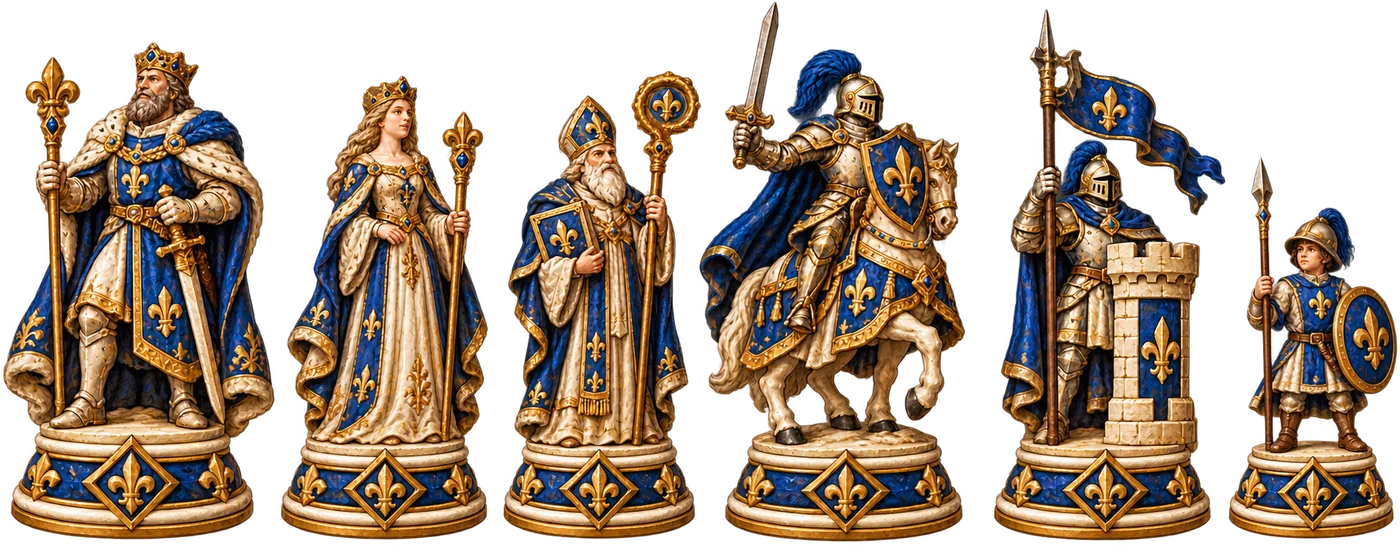
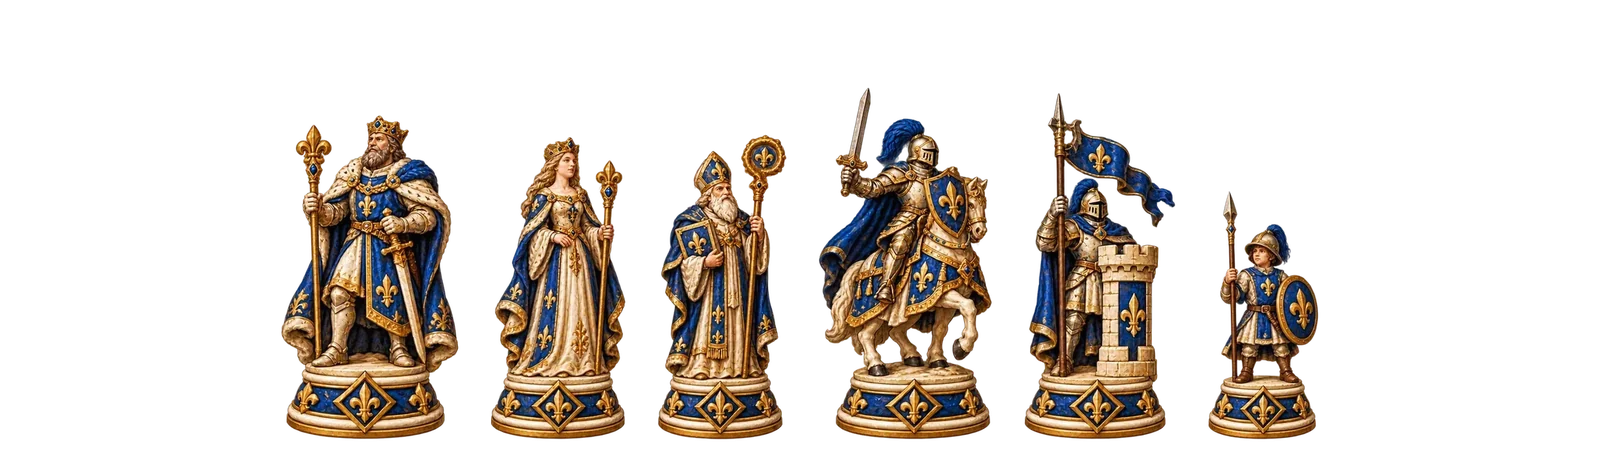
Add files via upload

diff --git a/index.html b/index.html
@@ -189,7 +189,7 @@ main.home h2,.community h2{font:700 clamp(26px,3.4vw,36px)/1.2 'Cinzel',Georgia,
 /* Piece sets */
 .sets{display:grid;grid-template-columns:1fr;gap:18px}
 .sets figure{margin:0;background:var(--lacquer);border:1px solid var(--rule);border-radius:14px;padding:16px 16px 12px;display:flex;flex-direction:column}
-.sets img{display:block;width:100%;height:auto;aspect-ratio:3/1;object-fit:contain}
+.sets img{display:block;width:100%;height:auto;aspect-ratio:1600/457;object-fit:contain}
 .sets figcaption{margin-top:10px;display:flex;flex-wrap:wrap;align-items:baseline;gap:2px 12px}
 .sets figcaption b{font:600 17px/1.3 'Cinzel',Georgia,serif;color:var(--gilt)}
 .sets figcaption span{font-size:18px;color:var(--soft)}
@@ -418,10 +418,10 @@ footer .legal{margin-top:6px}
 <h2>Make it yours</h2>
 <p class="lede">Choose your table, background, music and piece set. Earn crests, banners and seasonal tables, and gild your favourite pieces from bronze up to platinum as you master them.</p>
 <div class="sets">
-<figure><img src="set-basic.webp" alt="The Basic piece set: classic king, queen, bishop, knight, rook and pawn in ivory and gold" loading="lazy" decoding="async" width="1400" height="429"><figcaption><b>Basic</b><span>The familiar shapes, for classic play.</span></figcaption></figure>
-<figure><img src="set-court.webp" alt="The Court piece set in blue and gold" loading="lazy" decoding="async" width="1400" height="552"><figcaption><b>Court</b><span>One of many sets with its own character.</span></figcaption></figure>
-<figure><img src="set-cute.webp" alt="The eight new pieces in the Cute set, pink and gold: Jester, Pilgrim, Herald, Abbess, Archer, Nightrider, Lancer and Falconer" loading="lazy" decoding="async" width="1400" height="455"><figcaption><b>Cute</b><span>Every set has its own take on all eight new pieces.</span></figcaption></figure>
-<figure><img src="set-halloween.webp" alt="The Halloween piece set" loading="lazy" decoding="async" width="1400" height="582"><figcaption><b>Halloween</b><span>Seasonal sets arrive with the year's events.</span></figcaption></figure>
+<figure><img src="set-basic.webp" alt="The Basic piece set: classic king, queen, bishop, knight, rook and pawn in ivory and gold" loading="lazy" decoding="async" width="1600" height="457"><figcaption><b>Basic</b><span>The familiar shapes, for classic play.</span></figcaption></figure>
+<figure><img src="set-court.webp" alt="The Court piece set in blue and gold" loading="lazy" decoding="async" width="1600" height="457"><figcaption><b>Court</b><span>One of many sets with its own character.</span></figcaption></figure>
+<figure><img src="set-cute.webp" alt="The eight new pieces in the Cute set, pink and gold: Jester, Pilgrim, Herald, Abbess, Archer, Nightrider, Lancer and Falconer" loading="lazy" decoding="async" width="1600" height="457"><figcaption><b>Cute</b><span>Every set has its own take on all eight new pieces.</span></figcaption></figure>
+<figure><img src="set-halloween.webp" alt="The Halloween piece set" loading="lazy" decoding="async" width="1600" height="457"><figcaption><b>Halloween</b><span>Seasonal sets arrive with the year's events.</span></figcaption></figure>
 </div>
 <p class="sets-note">A few examples from the collection. More sets, tables and backgrounds are waiting in the game.</p>
 </section>
